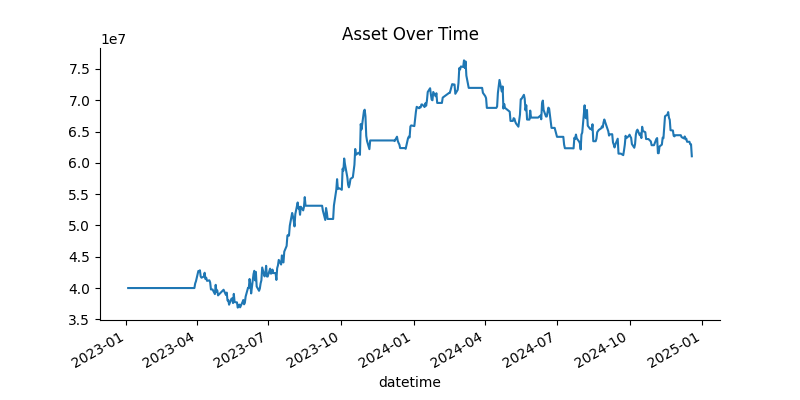
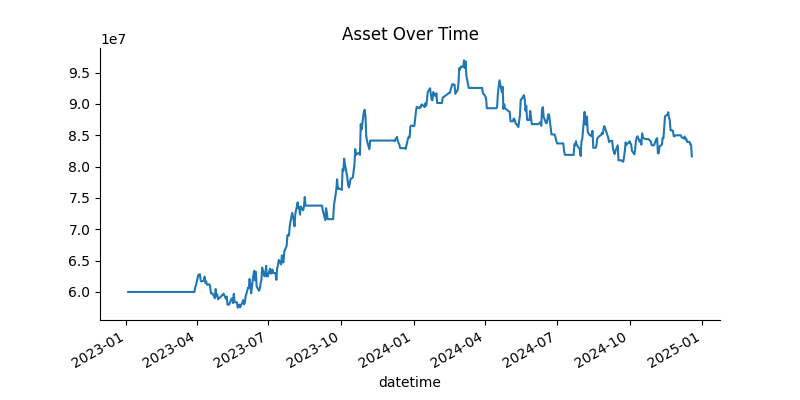
Optimize trading parameters and update backtest function to improve performance metrics

diff --git a/main.py b/main.py
@@ -40,7 +40,7 @@ def main(in_sample=True):
       window = study.best_params['window']
       CUT_LOSS_THRES = study.best_params['CUT_LOSS_THRES']
       signals, data = strategy.generate_signals(ohlc, short_ema, long_ema, signal_ema, window)
-      data = backtest(data, signals, CUT_LOSS_THRES)
+      data = backtest(data, signals, CUT_LOSS_THRES, INITIAL_ASSET)
       evaluation(data)
    else:
       with open('config/best_params.json', 'r') as f:

diff --git a/src/strategy/backtest.py b/src/strategy/backtest.py
@@ -1,7 +1,7 @@
 from ..optimizer.position import *
 
 
-def backtest(data, signals, loss_threshold, initial_asset=40000000):
+def backtest(data, signals, loss_threshold, initial_asset=60000000):
     prev_date = None
     trading_data = data.copy()
     asset_value = initial_asset

diff --git a/TEMP.md b/TEMP.md
@@ -50,33 +50,33 @@ A crossover between short-term and long-term momentum signals can indicate poten
   seed_value = 0
 
 - **After Optimization parameters**:
-  - `short_ema = 12`
-  - `long_ema = 32`
-  - `signal_ema = 14`
-  - `window_sma = 48`
-  - `CUT_LOSS_THRES = -9`
+  - `short_ema = 16`
+  - `long_ema = 28`
+  - `signal_ema = 12`
+  - `window_sma = 49`
+  - `CUT_LOSS_THRES = -7`
 - **Result**:
   - With optimized parameters:
-   - Total asset after 2 year: 61050000.00
-   - Total transaction: 143
-   - Return rate: 52.62%
-   - Sharpe ratio: 0.83
-   - Max Drawdown: -20.06%
+   - Total asset after 2 year: 81636000.00
+   - Total transaction: 147
+   - Return rate: 36.06%
+   - Sharpe ratio: 0.76
+   - Max Drawdown: -16.69%
 ![alt text](image/optimized.png)
 
 ## 7. Out-sample Backtesting
 - **Data**: Backtest on data of 2 years from 2021 to 2022
 - **Parameters**: Take from the most optimized parameters of in-sample data
-  - `short_ema = 12`
-  - `long_ema = 32`
-  - `signal_ema = 14`
-  - `window_sma = 48`
-  - `CUT_LOSS_THRES = -9`
+  - `short_ema = 16`
+  - `long_ema = 28`
+  - `signal_ema = 12`
+  - `window_sma = 49`
+  - `CUT_LOSS_THRES = -7`
 - **Result**:
-   - Total asset after 2 year: 69330000.00
-   - Total transaction: 173
-   - Return rate: 21.75%
-   - Sharpe ratio: 0.39
-   - Max Drawdown: -55.48%
+   - Total asset after 2 year: 72010000.00
+   - Total transaction: 175
+   - Return rate: 26.22%
+   - Sharpe ratio: 0.44
+   - Max Drawdown: -54.13%
 ![alt text](image/outtesting.png)
 
